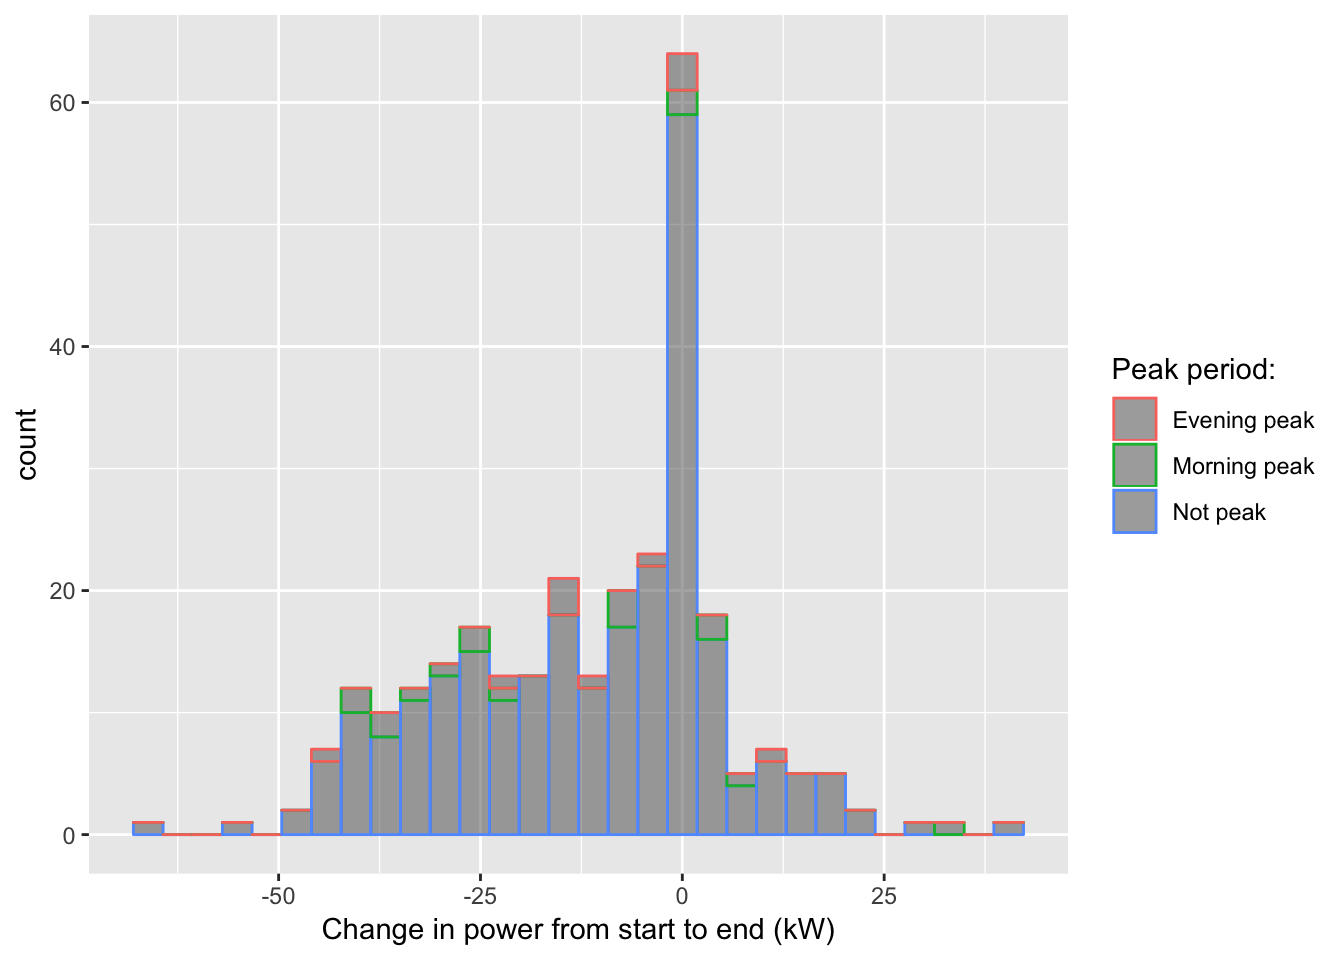
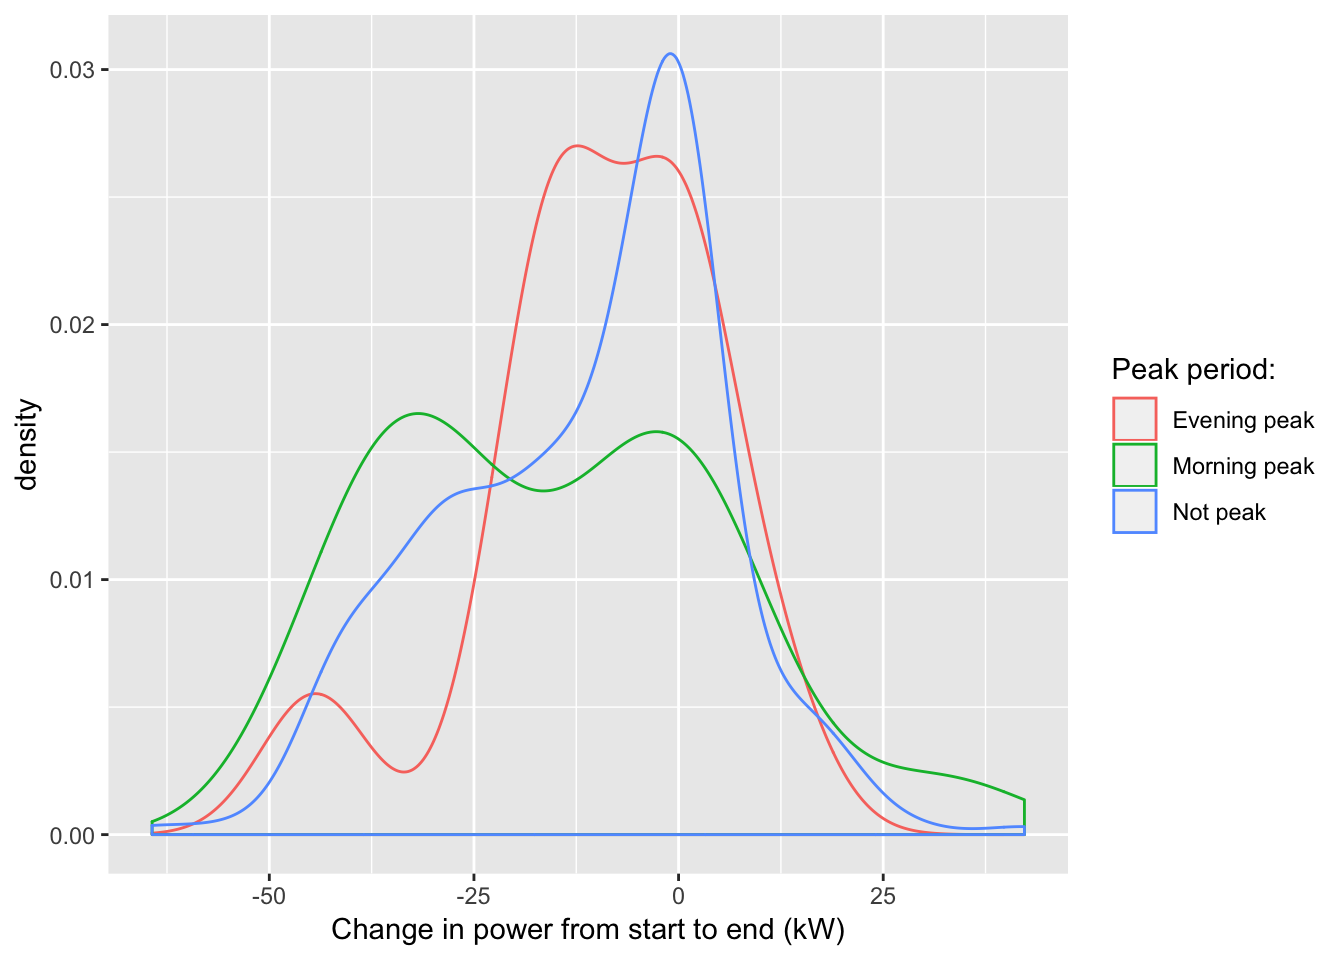
fixed fast power charge delta plot in annex

diff --git a/reports/fullReport/EVBB_report_v1.html b/reports/fullReport/EVBB_report_v1.html
@@ -303,7 +303,7 @@ div.tocify {
 <h1 class="title toc-ignore">Analysis of electric vehicle usage patterns in New Zealand</h1>
 <h3 class="subtitle"><em>Statistical Report</em></h3>
 <h4 class="author"><em>Rafferty Parker and Ben Anderson (<a href="mailto:ben.anderson@otago.ac.nz">ben.anderson@otago.ac.nz</a>), <a href="https://www.otago.ac.nz/centre-sustainability/">Centre for Sustainability</a>, University of Otago</em></h4>
-<h4 class="date"><em>Last run at: 2019-04-17 16:37:44</em></h4>
+<h4 class="date"><em>Last run at: 2019-04-17 16:50:25</em></h4>
 
 </div>
 
@@ -2727,17 +2727,16 @@ Figure 5.5: Fast charging (corrected) - state of charge
 </p>
 </div>
 <pre class="r"><code>#ggsave(&quot;plots/fastChargePairs_SoC_LineSegments.png&quot;, p, height = 10)</code></pre>
-<p>Figure <a href="#fig:fastPowerDeltaDensity">5.6</a> shows the distribution of charge power deltas by peak/not peak period (of start time) for ‘fast’ charge events. This suggests that the majority of charging events either hold power constant or decline over time with some sort of shoulder effect. A few increase. More of those which start in the ‘evening’ and ‘not peak’ period seem to hold the power level constant, presumably because the battery capacity is slightly lower at this time following day-time use.</p>
+<p>Figure <a href="#fig:fastPowerDeltaDensity">5.6</a> shows the distribution of charge power deltas by peak/not peak period (of start time) for all ‘fast’ charge events. These show a rather different pattern.</p>
 <pre class="r"><code>p &lt;- ggplot2::ggplot(dt, aes(x = chargePowerDelta, colour = peakPeriod)) +
-  geom_histogram(alpha = 0.5) +
+  geom_density(alpha = 0.5) +
   guides(colour = guide_legend(title = &quot;Peak period:&quot;)) +
   labs(x = &quot;Change in power from start to end (kW)&quot;)
 p</code></pre>
-<pre><code>## `stat_bin()` using `bins = 30`. Pick better value with `binwidth`.</code></pre>
 <div class="figure"><span id="fig:fastPowerDeltaDensity"></span>
-<img src="EVBB_report_v1_files/figure-html/fastPowerDeltaDensity-1.png" alt="Histogram of state of charge deltas by peak/not peak period" width="672" />
+<img src="EVBB_report_v1_files/figure-html/fastPowerDeltaDensity-1.png" alt="Histogram of charge power deltas by peak/not peak period" width="672" />
 <p class="caption">
-Figure 5.6: Histogram of state of charge deltas by peak/not peak period
+Figure 5.6: Histogram of charge power deltas by peak/not peak period
 </p>
 </div>
 </div>
